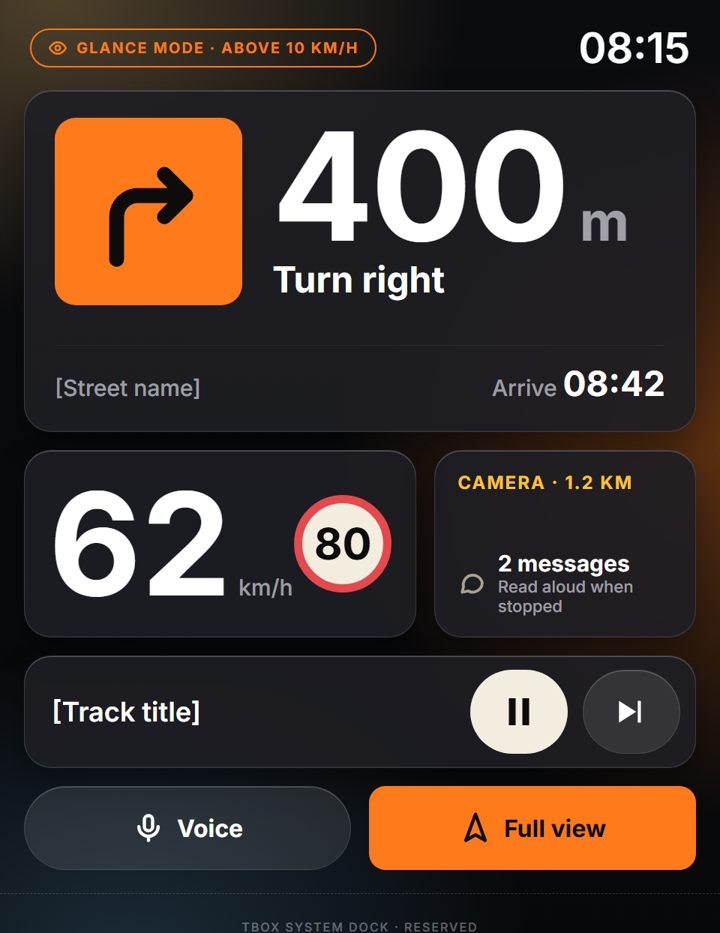
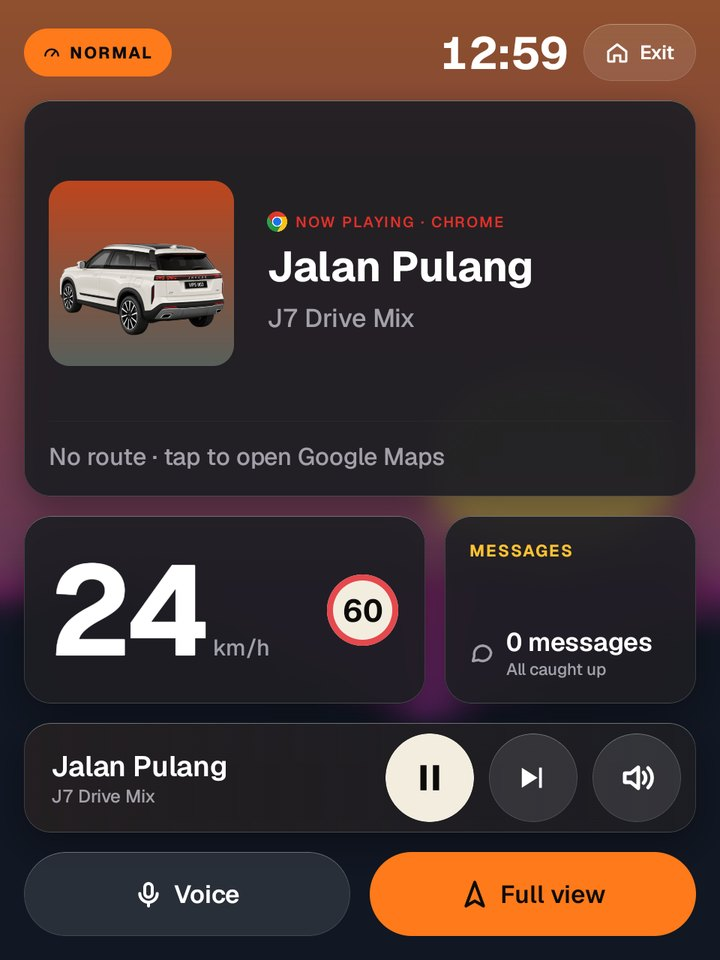
Founder price RM59 / RM89 (normal RM79 / RM119 from 13 Nov), honest claims and real app screens
- No crossed-out 'was' prices; the normal price is stated instead.
- Next turn only with Google Maps; OBD experimental and untested; J7 AWD tested, other variants checked first; updates arrive in the app.
- FAQ: YouTube pauses when moving (passenger switch); map, weather and speed-limit services and Google's online voice.
- Home, driving and Vehicle pictures are now real app screenshots; share image re-rendered.
- Pro includes the Dot Matrix style.

diff --git a/index.html b/index.html
@@ -6,7 +6,7 @@
 <title>J7 Launcher · Pre-booking</title>
 <meta name="description" content="J7 Launcher: a custom screen for the Jaecoo J7's Android box, with your own car and plate number. Founder pre-order 3–12 Nov.">
 <meta property="og:title" content="J7 Launcher · Your J7's screen">
-<meta property="og:description" content="A custom screen for the Jaecoo J7's Android box: your car & plate, Waze / Google Maps / TuJu, driving mode. Founder price RM99, 3–12 Nov. BM / EN.">
+<meta property="og:description" content="A custom screen for the Jaecoo J7's Android box: your car & plate, Waze / Google Maps / TuJu, driving mode. Founder price from RM59, 3–12 Nov. BM / EN.">
 <meta property="og:image" content="https://j7launcher.github.io/img/share.jpg">
 <meta property="og:url" content="https://j7launcher.github.io/">
 <meta property="og:type" content="website">
@@ -60,7 +60,7 @@
     <div class="wrap offer-strip">
       <div><span class="k" data-i18n="strip.pre">Pre-order founder</span><b>3 – 12 Nov 2026</b></div>
       <div><span class="k" data-i18n="strip.slots">Slot</span><b id="slots" data-i18n="strip.slotsv">30 sahaja</b></div>
-      <div><span class="k" data-i18n="strip.from">Dari</span><b><s>RM159</s> RM99</b></div>
+      <div><span class="k" data-i18n="strip.from">Dari</span><b>RM59</b></div>
       <div class="count" aria-live="polite"><span class="k" data-i18n="strip.ends">Tamat dalam</span><b id="countdown">–</b></div>
     </div>
   </section>
@@ -80,7 +80,7 @@
         </article>
         <article class="feat big">
           <img src="img/drive.jpg" alt="" loading="lazy" width="720" height="933">
-          <div><h3 data-i18n="f3.h">Mod memandu</h3><p data-i18n="f3.p">Bila kereta bergerak, skrin bertukar: selekoh seterusnya, laju dan had laju dalam huruf besar. Mudah dibaca sepintas lalu.</p></div>
+          <div><h3 data-i18n="f3.h">Mod memandu</h3><p data-i18n="f3.p">Bila kereta bergerak, skrin bertukar: laju dan had laju dalam huruf besar, mudah dibaca sepintas lalu. Selekoh seterusnya dipaparkan bila guna Google Maps (Waze tidak berkongsi maklumat ini).</p></div>
         </article>
         <article class="feat">
           <h3 data-i18n="f4.h">Info harian Malaysia</h3><p data-i18n="f4.p">Waktu solat (atau waktu matahari), harga RON95, cuaca dan kualiti udara.</p>
@@ -89,16 +89,16 @@
           <h3 data-i18n="f5.h">Muzik &amp; volum besar</h3><p data-i18n="f5.p">Spotify dan YouTube Music, dengan butang volum besar di skrin.</p>
         </article>
         <article class="feat">
-          <h3 data-i18n="f6.h">Tema siang &amp; malam</h3><p data-i18n="f6.p">Cerah ketika siang, gelap waktu malam, hitam pekat untuk perjalanan malam. Wallpaper sendiri.</p>
+          <h3 data-i18n="f6.h">Tema siang &amp; malam</h3><p data-i18n="f6.p">Cerah ketika siang, gelap waktu malam, hitam pekat untuk perjalanan malam. Wallpaper sendiri. Pro: gaya Dot Matrix.</p>
         </article>
         <article class="feat pro">
           <span class="pill">Pro</span><h3 data-i18n="f7.h">Profil pemandu</h3><p data-i18n="f7.p">Anda dan pasangan: tema, tempat, muzik dan app peta sendiri.</p>
         </article>
         <article class="feat pro">
-          <span class="pill">Pro</span><h3 data-i18n="f8.h">Video ketika parkir</h3><p data-i18n="f8.p">YouTube hanya bila kereta berhenti. Dan susun sendiri kad di skrin utama.</p>
+          <span class="pill">Pro</span><h3 data-i18n="f8.h">Video ketika parkir</h3><p data-i18n="f8.p">YouTube ketika parkir; video berhenti bila kereta bergerak. Dan susun sendiri kad di skrin utama.</p>
         </article>
         <article class="feat pro">
-          <span class="pill">Pro · beta</span><h3 data-i18n="f9.h">Data OBD</h3><p data-i18n="f9.p">Dengan adapter OBD: paras minyak dan stesen terdekat bila minyak rendah. Masih beta.</p>
+          <span class="pill">Pro · eksperimen</span><h3 data-i18n="f9.h">Data OBD</h3><p data-i18n="f9.p">Dengan adapter OBD: paras minyak dan stesen terdekat bila minyak rendah. Masih eksperimen: belum diuji dengan adapter dalam kereta.</p>
         </article>
       </div>
     </div>
@@ -107,11 +107,11 @@
   <section id="pricing" class="sec alt">
     <div class="wrap">
       <h2 data-i18n="price.h">Harga founder</h2>
-      <p class="sec-lead" data-i18n="price.lead">Untuk 30 tempahan pertama, 3–12 Nov. Selepas itu harga biasa.</p>
+      <p class="sec-lead" data-i18n="price.lead">Untuk 30 tempahan pertama, 3–12 Nov. Mulai 13 Nov: harga biasa RM79 (Standard) dan RM119 (Pro).</p>
       <div class="plans">
         <div class="plan">
           <h3>Standard</h3>
-          <p class="price"><b>RM99</b> <s>RM159</s></p>
+          <p class="price"><b>RM59</b> <span class="norm" data-i18n="price.normS">biasa RM79 mulai 13 Nov</span></p>
           <ul>
             <li data-i18n="ps.1">Skrin utama khas dengan kereta &amp; plat anda</li>
             <li data-i18n="ps.2">Waze / Google Maps / TuJu, skrin belah &amp; dok</li>
@@ -124,18 +124,18 @@
         <div class="plan pro">
           <span class="badge" data-i18n="price.best">Paling lengkap</span>
           <h3>Pro</h3>
-          <p class="price"><b>RM149</b> <s>RM249</s></p>
+          <p class="price"><b>RM89</b> <span class="norm" data-i18n="price.normP">biasa RM119 mulai 13 Nov</span></p>
           <ul>
             <li class="plus" data-i18n="pp.0">Semua dalam Standard, dan:</li>
             <li data-i18n="pp.1">Profil pemandu (sehingga 4 orang)</li>
-            <li data-i18n="pp.2">Susun sendiri kad di skrin utama</li>
+            <li data-i18n="pp.2">Susun sendiri kad di skrin utama &amp; gaya Dot Matrix</li>
             <li data-i18n="pp.3">Video YouTube ketika parkir</li>
-            <li data-i18n="pp.4">Data OBD &amp; stesen minyak terdekat (beta)</li>
+            <li data-i18n="pp.4">Data OBD (eksperimen, belum diuji, perlu adapter)</li>
           </ul>
           <a class="btn full" href="#book" data-pick="pro" data-i18n="price.pickP">Pilih Pro</a>
         </div>
       </div>
-      <p class="note" data-i18n-html="price.both">Kedua-dua: <b>dibina khas dengan nombor plat anda</b> · bantuan pasang melalui WhatsApp · kemas kini percuma 12 bulan (masuk sendiri dalam app) · <b>bayar hanya selepas sah serasi</b> · wang dikembalikan penuh jika tak berfungsi dalam 7 hari.</p>
+      <p class="note" data-i18n-html="price.both">Kedua-dua: <b>dibina khas dengan nombor plat anda</b> · bantuan pasang melalui WhatsApp · kemas kini percuma 12 bulan (sampai dalam app) · <b>bayar hanya selepas sah serasi</b> · wang dikembalikan penuh jika tak berfungsi dalam 7 hari.</p>
     </div>
   </section>
 
@@ -145,7 +145,7 @@
         <h2 data-i18n="fit.h">Sesuai untuk kereta anda?</h2>
         <p class="sec-lead" data-i18n="fit.lead">J7 Launcher dipasang pada Android box (AI box) yang disambung ke skrin J7. Ia tidak mengubah sistem kereta.</p>
         <ul class="checks">
-          <li class="y" data-i18n="fit.1">Jaecoo J7 (semua varian)</li>
+          <li class="y" data-i18n="fit.1">Jaecoo J7 (diuji pada J7 AWD; varian lain saya semak dulu)</li>
           <li class="y" data-i18n="fit.2">Ada Android box / AI box pada skrin J7</li>
           <li class="y" data-i18n="fit.3">Android 10 ke atas (diuji pada Android 13)</li>
           <li class="y" data-i18n="fit.4">RAM 3 GB ke atas (Pro: 4 GB ke atas)</li>
@@ -249,8 +249,8 @@
         <fieldset>
           <legend data-i18n="g4">4 · Pilihan</legend>
           <div class="cards" role="radiogroup" aria-label="Package">
-            <label class="card"><input type="radio" name="package" value="Standard RM99" required><span><b>Standard</b> RM99</span></label>
-            <label class="card"><input type="radio" name="package" value="Pro RM149"><span><b>Pro</b> RM149</span></label>
+            <label class="card"><input type="radio" name="package" value="Standard RM59" required><span><b>Standard</b> RM59</span></label>
+            <label class="card"><input type="radio" name="package" value="Pro RM89"><span><b>Pro</b> RM89</span></label>
           </div>
           <div class="row2">
             <label><span data-i18n="q.nav">App peta utama</span>
@@ -313,11 +313,11 @@
     <div class="wrap narrow">
       <h2>FAQ</h2>
       <details><summary data-i18n="q1">Adakah ia menjejaskan waranti kereta?</summary><p data-i18n="a1">J7 Launcher hanya app pada Android box. Ia tidak mengubah kereta atau sistem Jaecoo, dan boleh dibuang bila-bila masa untuk kembali ke skrin asal.</p></details>
-      <details><summary data-i18n="q2">Selamat digunakan ketika memandu?</summary><p data-i18n="a2">Mod memandu guna huruf besar dan butang besar. Video hanya boleh dimain ketika kereta berhenti.</p></details>
-      <details><summary data-i18n="q3">Bagaimana dengan data saya?</summary><p data-i18n="a3">Mesej, muzik dan lokasi diproses dalam box anda sahaja dan tidak dihantar kepada saya. Lihat notis privasi di bawah untuk maklumat tempahan.</p></details>
-      <details><summary data-i18n="q4">Bagaimana kemas kini diterima?</summary><p data-i18n="a4">App menyemak kemas kini sendiri dan memasangnya ketika kereta diparkir (atau tanya anda dahulu). Percuma selama 12 bulan.</p></details>
+      <details><summary data-i18n="q2">Selamat digunakan ketika memandu?</summary><p data-i18n="a2">Mod memandu guna huruf besar dan butang besar. Video YouTube berhenti bila kereta bergerak; ada suis untuk penumpang, tetapi pemandu tidak boleh menonton ketika memandu.</p></details>
+      <details><summary data-i18n="q3">Bagaimana dengan data saya?</summary><p data-i18n="a3">Mesej, muzik dan lokasi tidak dihantar kepada saya. Untuk peta, cuaca, had laju dan harga minyak, box meminta maklumat kawasan anda daripada perkhidmatan tersebut; suara amaran mungkin guna suara dalam talian Google. Lihat notis privasi di bawah untuk maklumat tempahan.</p></details>
+      <details><summary data-i18n="q4">Bagaimana kemas kini diterima?</summary><p data-i18n="a4">App menyemak kemas kini sendiri dan memberitahu anda; tekan Pasang. Percuma selama 12 bulan.</p></details>
       <details><summary data-i18n="q5">Kalau box saya tak serasi?</summary><p data-i18n="a5">Tiada bayaran. Jika sudah bayar dan app tak berfungsi dalam 7 hari, wang dikembalikan penuh.</p></details>
-      <details><summary data-i18n="q6">Perlu adapter OBD?</summary><p data-i18n="a6">Tidak. Semua ciri berfungsi tanpa OBD, kecuali data OBD dan amaran minyak rendah dalam Pro (masih beta).</p></details>
+      <details><summary data-i18n="q6">Perlu adapter OBD?</summary><p data-i18n="a6">Tidak. Semua ciri berfungsi tanpa OBD, kecuali data OBD dan amaran minyak rendah dalam Pro (masih eksperimen).</p></details>
     </div>
   </section>
 

diff --git a/app.js b/app.js
@@ -33,21 +33,23 @@ const EN = {
   'f2.h': 'Waze, Google Maps or TuJu',
   'f2.p': 'Pick your map app. Open it in split screen with J7 (map on top or bottom), full screen with the J7 dock, or let it run in the background.',
   'f3.h': 'Driving mode',
-  'f3.p': 'Once the car moves, the screen changes: next turn, speed and speed limit in big type, readable at a glance.',
+  'f3.p': 'Once the car moves, the screen changes: speed and speed limit in big type, readable at a glance. The next turn shows when you use Google Maps (Waze doesn\'t share it).',
   'f4.h': 'Malaysian daily info',
   'f4.p': 'Prayer times (or sun times), RON95 price, weather and air quality.',
   'f5.h': 'Music & big volume',
   'f5.p': 'Spotify and YouTube Music, with big on-screen volume buttons.',
   'f6.h': 'Day & night themes',
-  'f6.p': 'Light by day, dark at night, pure black for night drives. Your own wallpaper.',
+  'f6.p': 'Light by day, dark at night, pure black for night drives. Your own wallpaper. Pro: the Dot Matrix style.',
   'f7.h': 'Driver profiles',
   'f7.p': 'You and your partner: your own theme, places, music and map app.',
   'f8.h': 'Video when parked',
-  'f8.p': 'YouTube only while the car is stopped. Plus arrange your own home screen cards.',
+  'f8.p': 'YouTube while parked; the video pauses when the car moves. Plus arrange your own home screen cards.',
   'f9.h': 'OBD data',
-  'f9.p': 'With an OBD adapter: fuel level and the nearest station when fuel is low. Still in beta.',
+  'f9.p': 'With an OBD adapter: fuel level and the nearest station when fuel is low. Still experimental: not yet tested with an adapter in a car.',
   'price.h': 'Founder prices',
-  'price.lead': 'For the first 30 bookings, 3–12 Nov. Normal prices after that.',
+  'price.lead': 'For the first 30 bookings, 3–12 Nov. From 13 Nov: normal price RM79 (Standard) and RM119 (Pro).',
+  'price.normS': 'normal RM79 from 13 Nov',
+  'price.normP': 'normal RM119 from 13 Nov',
   'ps.1': 'Custom home screen with your car & plate',
   'ps.2': 'Waze / Google Maps / TuJu, split screen & dock',
   'ps.3': 'Driving mode, speed limits & alerts',
@@ -57,14 +59,14 @@ const EN = {
   'price.best': 'Most complete',
   'pp.0': 'Everything in Standard, plus:',
   'pp.1': 'Driver profiles (up to 4 people)',
-  'pp.2': 'Arrange your own home screen cards',
+  'pp.2': 'Arrange your own home screen cards & the Dot Matrix style',
   'pp.3': 'YouTube videos when parked',
-  'pp.4': 'OBD data & nearest petrol station (beta)',
+  'pp.4': 'OBD data (experimental, untested, needs an adapter)',
   'price.pickP': 'Choose Pro',
-  'price.both': 'Both: <b>built for your plate number</b> · install help on WhatsApp · 12 months of free updates (installed by the app itself) · <b>pay only after it\'s confirmed to fit</b> · full refund if it doesn\'t work within 7 days.',
+  'price.both': 'Both: <b>built for your plate number</b> · install help on WhatsApp · 12 months of free updates (they arrive in the app) · <b>pay only after it\'s confirmed to fit</b> · full refund if it doesn\'t work within 7 days.',
   'fit.h': 'Does it fit your car?',
   'fit.lead': 'J7 Launcher installs on the Android box (AI box) connected to the J7\'s screen. It doesn\'t change the car\'s own systems.',
-  'fit.1': 'Jaecoo J7 (all variants)',
+  'fit.1': 'Jaecoo J7 (tested on the J7 AWD; other variants I check first)',
   'fit.2': 'An Android box / AI box on the J7 screen',
   'fit.3': 'Android 10 or newer (tested on Android 13)',
   'fit.4': '3 GB RAM or more (Pro: 4 GB or more)',
@@ -135,15 +137,15 @@ const EN = {
   'q1': 'Does it affect my car\'s warranty?',
   'a1': 'J7 Launcher is only an app on the Android box. It doesn\'t change the car or Jaecoo\'s systems, and you can remove it any time to get the original screen back.',
   'q2': 'Is it safe to use while driving?',
-  'a2': 'Driving mode uses big type and big buttons. Video only plays while the car is stopped.',
+  'a2': 'Driving mode uses big type and big buttons. YouTube video pauses when the car moves; there is a switch for passengers, but the driver must never watch while driving.',
   'q3': 'What about my data?',
-  'a3': 'Messages, music and location are handled on your box only and are never sent to me. See the privacy notice below for your booking details.',
+  'a3': 'Messages, music and location are never sent to me. For maps, weather, speed limits and fuel prices, the box asks those services about your area; spoken alerts may use Google\'s online voice. See the privacy notice below for your booking details.',
   'q4': 'How do updates arrive?',
-  'a4': 'The app checks for updates by itself and installs them while the car is parked (or asks you first). Free for 12 months.',
+  'a4': 'The app checks for updates by itself and tells you; tap Install. Free for 12 months.',
   'q5': 'What if my box doesn\'t fit?',
   'a5': 'No payment. If you\'ve paid and the app doesn\'t work within 7 days, you get a full refund.',
   'q6': 'Do I need an OBD adapter?',
-  'a6': 'No. Everything works without OBD, except Pro\'s OBD data and low-fuel alert (still in beta).',
+  'a6': 'No. Everything works without OBD, except Pro\'s OBD data and low-fuel alert (still experimental).',
   'pv.h': 'Privacy notice & terms',
   'pv.1': 'Data collected: name, WhatsApp number, email (optional), state, car details, plate number, Android box details and your choices.',
   'pv.2': 'Purpose: checking compatibility, building the app for your car, contacting you and supporting you. Kept in my private Google Sheet, never sold or shared.',
@@ -449,7 +451,7 @@ document.addEventListener('DOMContentLoaded', () => {
   document.querySelectorAll('.lang button').forEach((b) => b.addEventListener('click', () => setLang(b.dataset.lang)));
   ['ck-box', 'ck-android', 'ck-ram'].forEach((id) => document.getElementById(id).addEventListener('change', check));
   document.querySelectorAll('[data-pick]').forEach((a) => a.addEventListener('click', () => {
-    const v = a.dataset.pick === 'pro' ? 'Pro RM149' : 'Standard RM99';
+    const v = a.dataset.pick === 'pro' ? 'Pro RM89' : 'Standard RM59';
     const r = document.querySelector(`[name="package"][value="${v}"]`);
     if (r) r.checked = true;
   }));

diff --git a/style.css b/style.css
@@ -92,6 +92,7 @@ h2{font-size:clamp(30px,5vw,44px);font-weight:800;letter-spacing:-.025em}
 .plan h3{font-size:24px}
 .price{margin:8px 0 16px;color:var(--muted)}
 .price b{font-size:52px;font-weight:850;letter-spacing:-.03em;color:var(--ink)}
+.price .norm{font-size:15px;margin-left:6px}
 .plan ul{list-style:none;padding:0;margin:0 0 22px;display:flex;flex-direction:column;gap:9px;flex:1}
 .plan li{padding-left:26px;position:relative;color:#d3d8de;font-size:15.5px}
 .plan li::before{content:"";position:absolute;left:3px;top:7px;width:11px;height:6px;border-left:2.5px solid var(--ok);border-bottom:2.5px solid var(--ok);transform:rotate(-45deg)}
